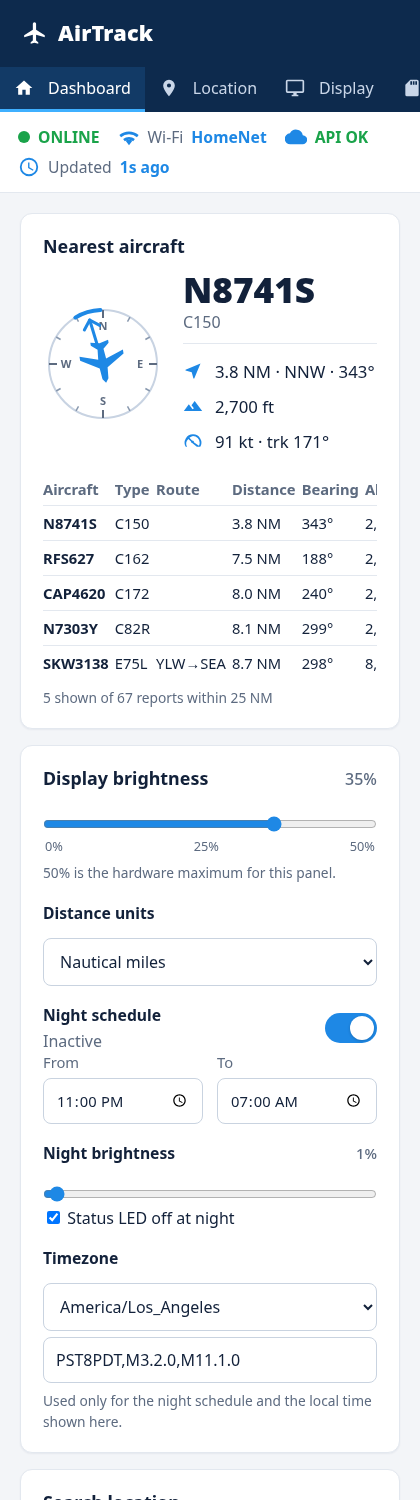
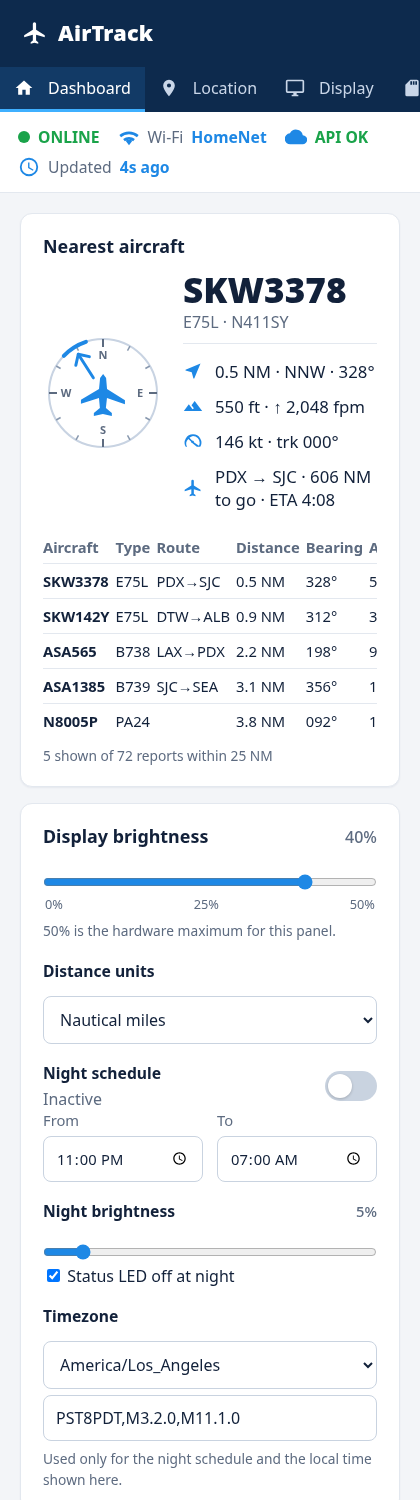
Docs: recapture the dashboard screenshots from a 1.6.3 device
Shows the Updates card and the Updates sidebar entry. Network name, LAN
address, and coordinates are replaced with the same stand-ins the earlier
captures used (HomeNet / 192.168.1.42 / SFO).

diff --git a/README.md b/README.md
@@ -30,7 +30,8 @@ sample values):
 ![AirTrack LCD states](docs/ui/lcd-states.png)
 
 **Dashboard** (`http://<device-ip>/` or `http://airtrack.local/`), desktop and
-phone widths:
+phone widths, captured from a device running 1.6.3 (network name, address, and
+coordinates are stand-ins):
 
 <p>
   <img src="docs/ui/dashboard.png" alt="AirTrack dashboard, desktop" width="66%">
